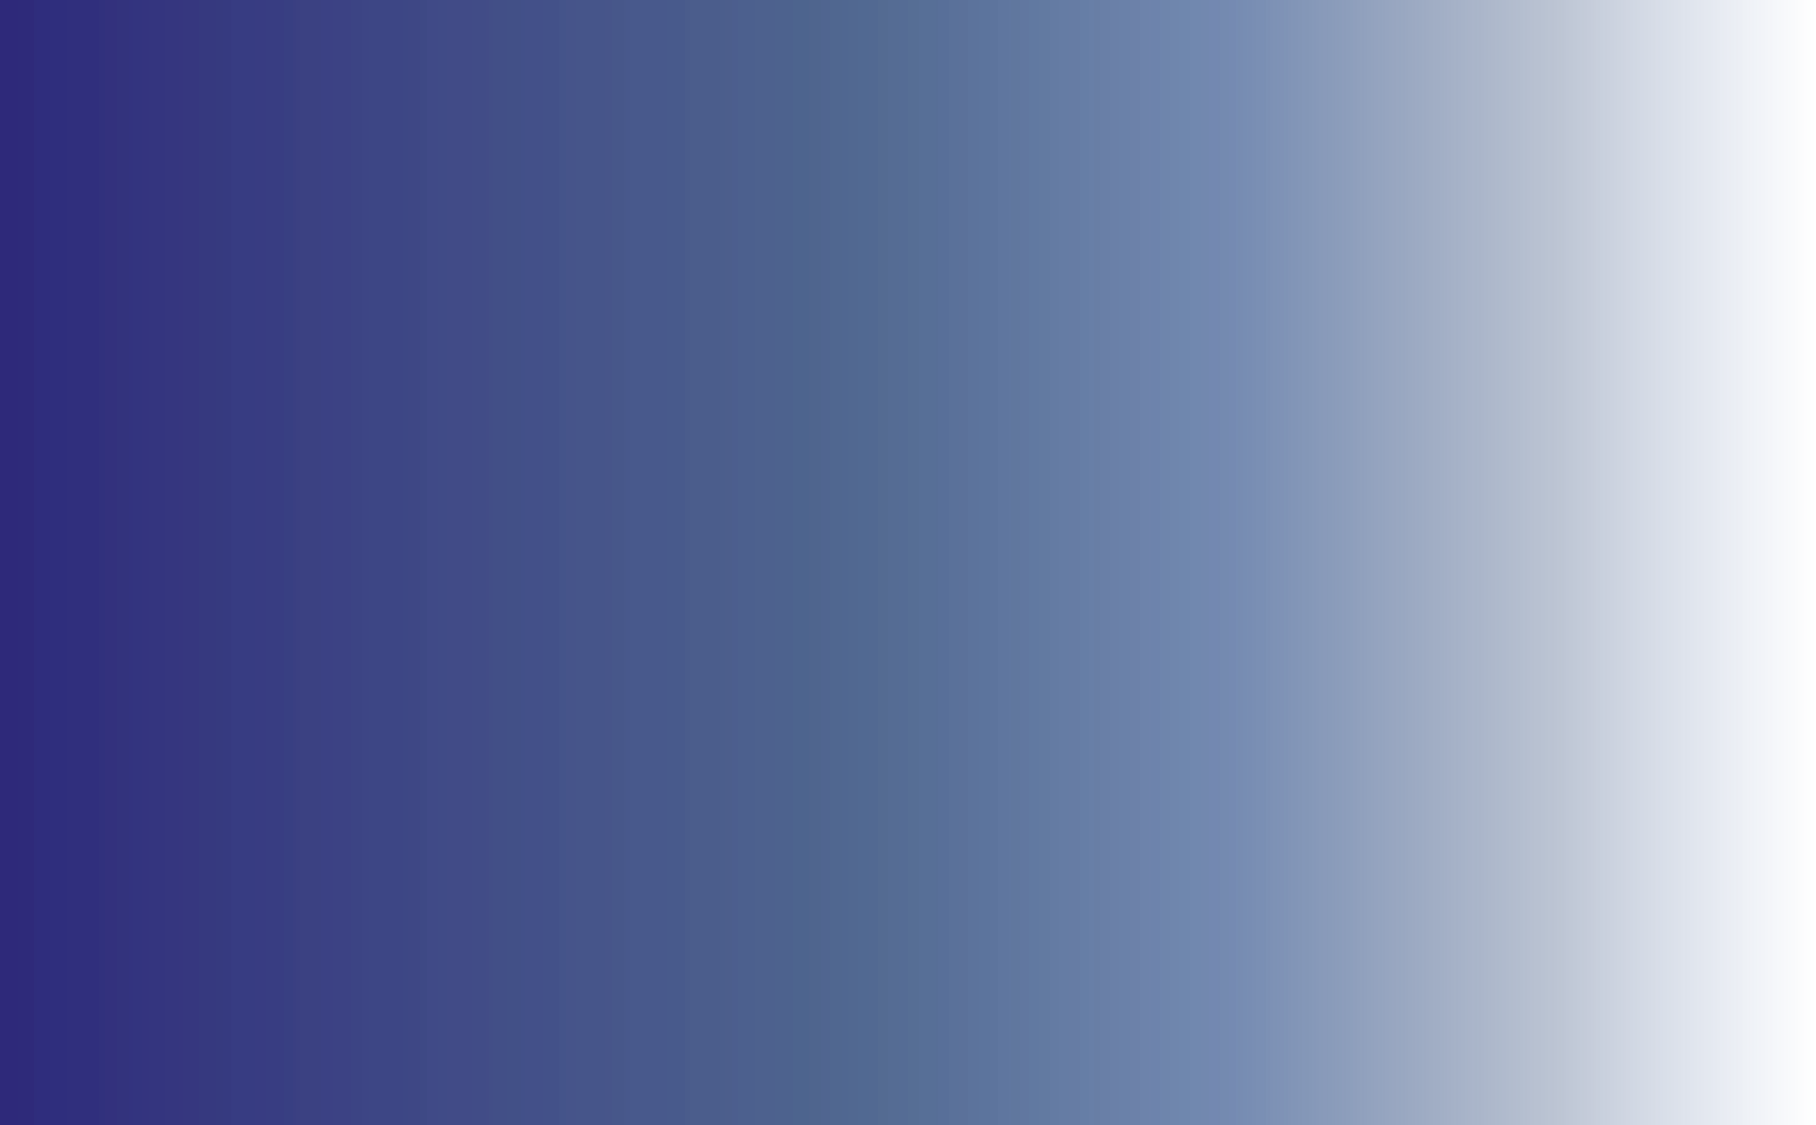
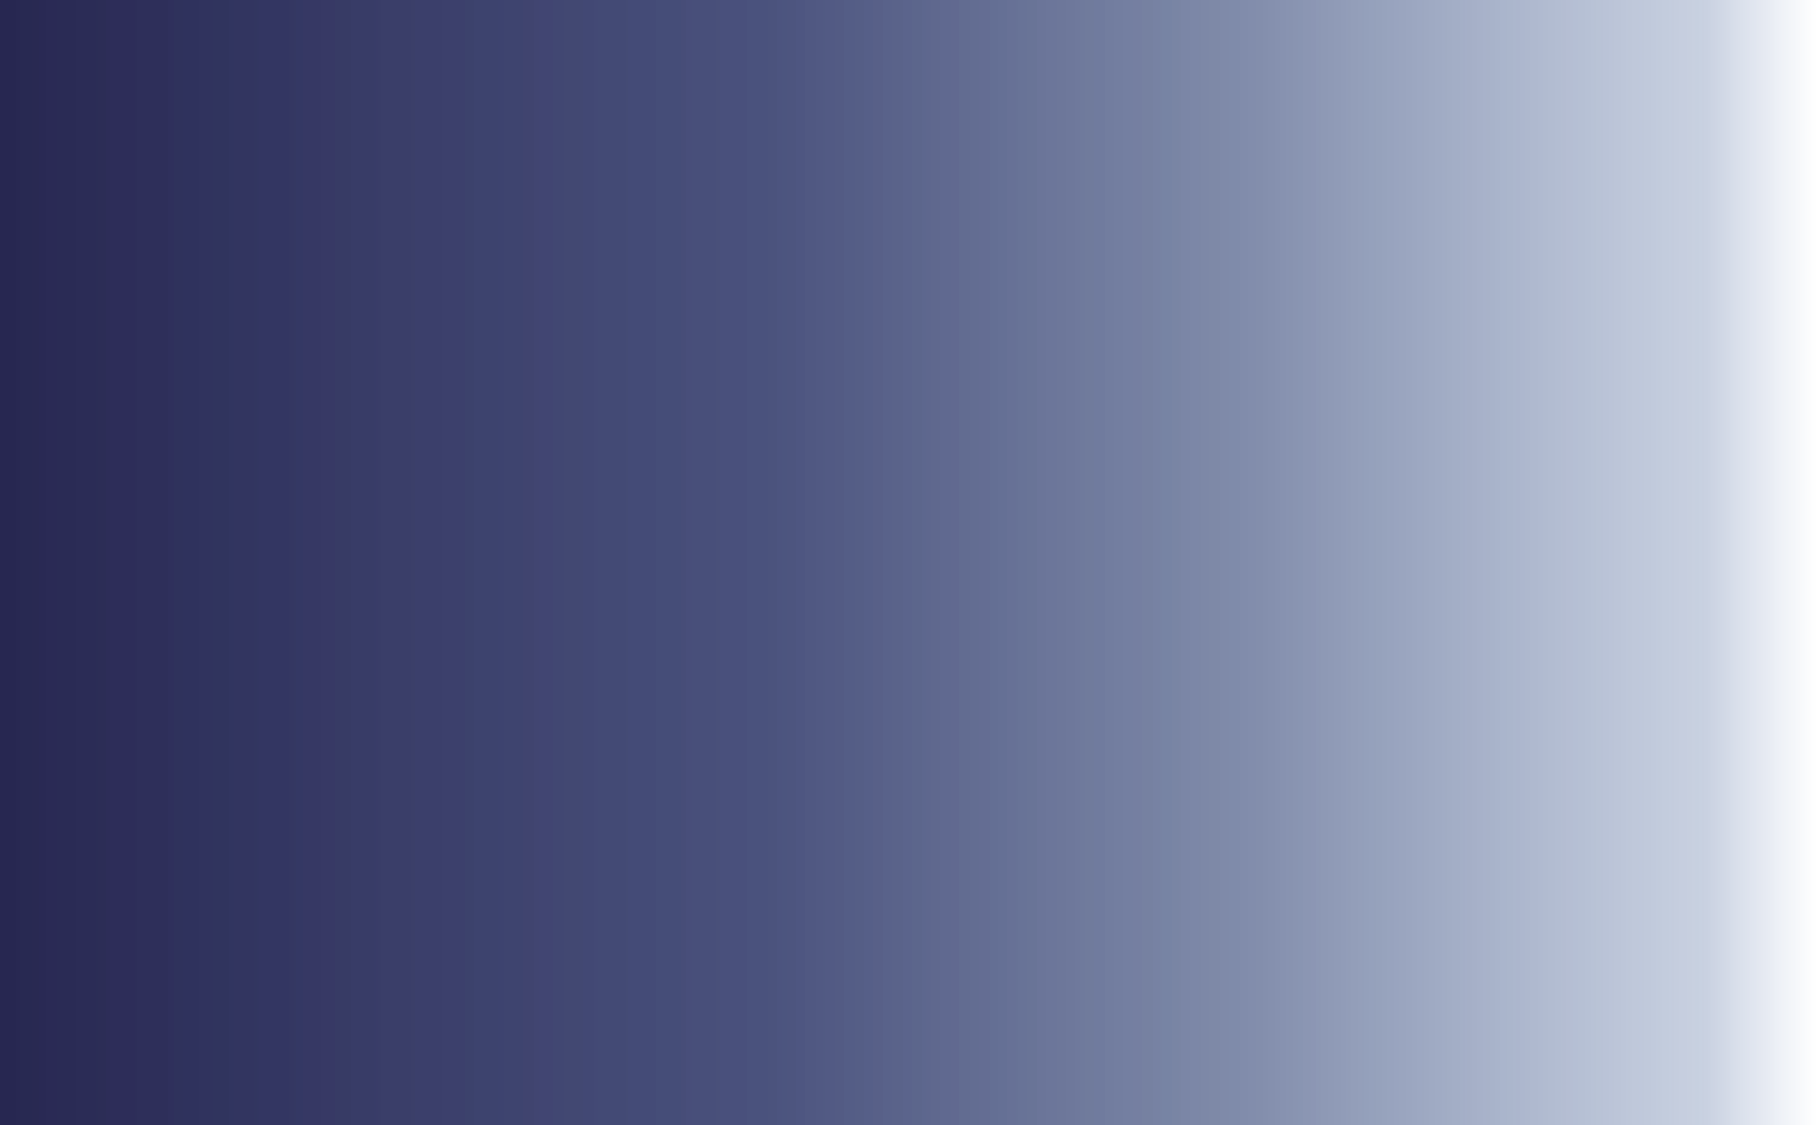
修改渐变

Changed region(s): [[0.0, 0.0, 0.3084, 1.0], [0.9251, 0.0, 0.9559, 1.0]]

diff --git a/resources/sass/app.scss b/resources/sass/app.scss
@@ -15,21 +15,23 @@
 body {
   font-family: Helvetica, "Microsoft YaHei", Arial, sans-serif;
   font-size: 10px;
+  overflow-x: hidden;
+	overflow-y: hidden;
 }
 
 /* header */
 .navbar-static-top {
   // border-color: rgba(14, 60, 65, 0.479);
-  background-color: rgba(14, 60, 65, 0.479);
-  box-shadow: 0px 1px 11px 2px rgba(14, 60, 65, 0.479);
-  border-top: 14px solid rgb(10, 9, 41);
-  border-bottom: 1px solid rgba(14, 60, 65, 0.479);
+  background-color: rgba(5, 4, 70, 0.582);
+  box-shadow: 0px 1px 11px 2px rgba(5, 4, 70, 0.582);
+  border-top: 14px solid rgba(5, 4, 70, 0.582);
+  border-bottom: 1px solid rgba(5, 4, 70, 0.582);
   margin-bottom: 20px;
   margin-top: 0px;
-  height: 7.25rem; // 顶部导航栏宽度
+  height: 8rem; // 顶部导航栏宽度
   font-size: 2.25rem; // 导航栏上的文字大小
   z-index: 10;
-  opacity: 0.5 ;
+  // opacity: 0.5 ;
   font-optical-sizing: 1;
 
 }
@@ -116,14 +118,14 @@ body {
 
 .boxall {
   border: 0px solid rgba(25, 186, 138, 0);
-  padding:0 0rem 8rem 0rem;
+  padding:0 0rem 10rem 0rem;
   background: url(../picture/jianbian.png);
   // background: rgba(0, 0, 0, 0.418);
   background-size: 100% auto;
   position: relative;
   margin-bottom: 0px;
   z-index: 10;
-  height: 40rem; // 容器高度
+  height: 43rem; // 容器高度
 }
 
 .boxall:before,
@@ -148,14 +150,14 @@ body {
 
 .boxallright {
   border: 0px solid rgba(25, 186, 138, 0);
-  padding:0 0rem 8rem 0rem;
+  padding:0 0rem 10rem 0rem;
   background: url(../picture/jianbian-you.png);
   // background: rgba(0, 0, 0, 0.418);
   background-size: 100% auto;
   position: relative;
   margin-bottom: 0px;
   z-index: 10;
-  height: 40rem; // 容器高度
+  height: 43rem; // 容器高度
 }
 
 .boxallright:before,
@@ -182,7 +184,7 @@ body {
 
 .boxno {
   // border: 3px solid rgba(25,186,139,.17);
-  padding:0 2rem 0.5rem 2rem;
+  padding:0 2rem 1rem 2rem;
   // background: rgba(255,255,255,.04);
   background-size: 100% auto;
   position: relative;

diff --git a/public/css/app.css b/public/css/app.css
@@ -16533,21 +16533,22 @@ readers do not read off random characters that represent icons */
 body {
   font-family: Helvetica, "Microsoft YaHei", Arial, sans-serif;
   font-size: 10px;
+  overflow-x: hidden;
+  overflow-y: hidden;
 }
 
 /* header */
 
 .navbar-static-top {
-  background-color: rgba(14, 60, 65, 0.479);
-  box-shadow: 0px 1px 11px 2px rgba(14, 60, 65, 0.479);
-  border-top: 14px solid #0a0929;
-  border-bottom: 1px solid rgba(14, 60, 65, 0.479);
+  background-color: rgba(5, 4, 70, 0.582);
+  box-shadow: 0px 1px 11px 2px rgba(5, 4, 70, 0.582);
+  border-top: 14px solid rgba(5, 4, 70, 0.582);
+  border-bottom: 1px solid rgba(5, 4, 70, 0.582);
   margin-bottom: 20px;
   margin-top: 0px;
-  height: 7.25rem;
+  height: 8rem;
   font-size: 2.25rem;
   z-index: 10;
-  opacity: 0.5;
   font-optical-sizing: 1;
 }
 
@@ -16637,13 +16638,13 @@ body {
 
 .boxall {
   border: 0px solid rgba(25, 186, 138, 0);
-  padding: 0 0rem 8rem 0rem;
-  background: url(/images/jianbian.png?c18003e90c43981cd831f77f6f9ad5a3);
+  padding: 0 0rem 10rem 0rem;
+  background: url(/images/jianbian.png?b3d6850c72b4a2eca0500d84d481c54e);
   background-size: 100% auto;
   position: relative;
   margin-bottom: 0px;
   z-index: 10;
-  height: 40rem;
+  height: 43rem;
 }
 
 .boxall:before,
@@ -16672,13 +16673,13 @@ body {
 
 .boxallright {
   border: 0px solid rgba(25, 186, 138, 0);
-  padding: 0 0rem 8rem 0rem;
-  background: url(/images/jianbian-you.png?48faab756f02d2a7325e5479ac7296fc);
+  padding: 0 0rem 10rem 0rem;
+  background: url(/images/jianbian-you.png?f1d3af582ec69b5a36715b2895e7f130);
   background-size: 100% auto;
   position: relative;
   margin-bottom: 0px;
   z-index: 10;
-  height: 40rem;
+  height: 43rem;
 }
 
 .boxallright:before,
@@ -16704,7 +16705,7 @@ body {
 }
 
 .boxno {
-  padding: 0 2rem 0.5rem 2rem;
+  padding: 0 2rem 1rem 2rem;
   background-size: 100% auto;
   position: relative;
   margin-bottom: 0.5rem;

diff --git a/resources/views/layouts/_header.blade.php b/resources/views/layouts/_header.blade.php
@@ -1,7 +1,7 @@
-<nav class="navbar navbar-expand-lg navbar-dark  navbar-static-top">
+<nav class="navbar navbar-expand-lg  navbar-static-top">
 
     <!-- Branding Image -->
-    <a class="navbar-brand " href="{{ url('/') }}">
+    <a class="navbar-brand " href="{{ url('/') }}" style="color:#fff">
       {{-- <img alt="Brand" src="..."> --}}
       &nbsp;&nbsp;OWELL
     </a>
@@ -14,19 +14,19 @@
       <!-- Left Side Of Navbar -->
 
       <ul class="navbar-nav navbar-left mr-auto">
-          <li class="nav-item"><a class="nav-link" href="{{ url('/') }}">&nbsp;健康办公可视化平台</a></li>
+          <li class="nav-item"><a style="color:#fff" class="nav-link" href="{{ url('/') }}">&nbsp;健康办公可视化平台</a></li>
       </ul>
 
       <!-- Right Side Of Navbar -->
       <ul class="navbar-nav navbar-right ">
-          <li class="nav-item1 "><a class="nav-link" href="/kongqi" target="_top"><i class="fa fa-thermometer-half"></i>&nbsp;<span>空气</span>&nbsp;&nbsp;&nbsp;</a></li>
-          <li class="nav-item2 "><a class="nav-link" href="/shuizhi"><i class="fa fa-tint" aria-hidden="true"></i>&nbsp;水质&nbsp;&nbsp;&nbsp;</a></li>
-          <li class="nav-item3 "><a class="nav-link" href="/shushi"><i class="fa fa-child"></i>&nbsp;舒适&nbsp;&nbsp;&nbsp;</a></li>
-          <li class="nav-item4 "><a class="nav-link" href="/guangqiang"><i class="fa fa-sun" aria-hidden="true"></i>&nbsp;光强&nbsp;&nbsp;&nbsp;</a></li>
-          <li class="nav-item5 "><a class="nav-link" href="/yingyang"><i class="fa fa-futbol"></i>&nbsp;营养&nbsp;&nbsp;&nbsp;</a></li>
-          <li class="nav-item6 "><a class="nav-link" href="/jianshen"><i class="fa fa-fire" aria-hidden="true"></i>&nbsp;健身&nbsp;&nbsp;&nbsp;</a></li>
-          <li class="nav-item7 "><a class="nav-link" href="/huiyi"><i class="fa fa-camera" aria-hidden="true"></i>&nbsp;会议室管理&nbsp;&nbsp;&nbsp;</a></li>
-          <li class="nav-item8 "><a class="nav-link" href="/renyuan"><i class="fa fa-camera" aria-hidden="true"></i>&nbsp;人员管理&nbsp;&nbsp;&nbsp;</a></li>
+          <li class="nav-item1 "><a style="color:#fff" class="nav-link" href="/kongqi" target="_top"><i class="fa fa-thermometer-half"></i>&nbsp;<span>空气</span>&nbsp;&nbsp;&nbsp;</a></li>
+          <li class="nav-item2 "><a style="color:#fff" class="nav-link" href="/shuizhi"><i class="fa fa-tint" aria-hidden="true"></i>&nbsp;水质&nbsp;&nbsp;&nbsp;</a></li>
+          <li class="nav-item3 "><a style="color:#fff" class="nav-link" href="/shushi"><i class="fa fa-child"></i>&nbsp;舒适&nbsp;&nbsp;&nbsp;</a></li>
+          <li class="nav-item4 "><a style="color:#fff" class="nav-link" href="/guangqiang"><i class="fa fa-sun" aria-hidden="true"></i>&nbsp;光强&nbsp;&nbsp;&nbsp;</a></li>
+          <li class="nav-item5 "><a style="color:#fff" class="nav-link" href="/yingyang"><i class="fa fa-futbol"></i>&nbsp;营养&nbsp;&nbsp;&nbsp;</a></li>
+          <li class="nav-item6 "><a style="color:#fff" class="nav-link" href="/jianshen"><i class="fa fa-fire" aria-hidden="true"></i>&nbsp;健身&nbsp;&nbsp;&nbsp;</a></li>
+          <li class="nav-item7 "><a style="color:#fff" class="nav-link" href="/huiyi"><i class="fa fa-camera" aria-hidden="true"></i>&nbsp;会议室管理&nbsp;&nbsp;&nbsp;</a></li>
+          <li class="nav-item8 "><a style="color:#fff" class="nav-link" href="/renyuan"><i class="fa fa-camera" aria-hidden="true"></i>&nbsp;人员管理&nbsp;&nbsp;&nbsp;</a></li>
         </ul>
     </div>
 

diff --git a/resources/views/layouts/app.blade.php b/resources/views/layouts/app.blade.php
@@ -25,9 +25,6 @@
 
 
  <div class="container-fulid">
-  <canvas id="canvas"></canvas>
-
-
     @include('layouts._header')
     @yield('content')
 
